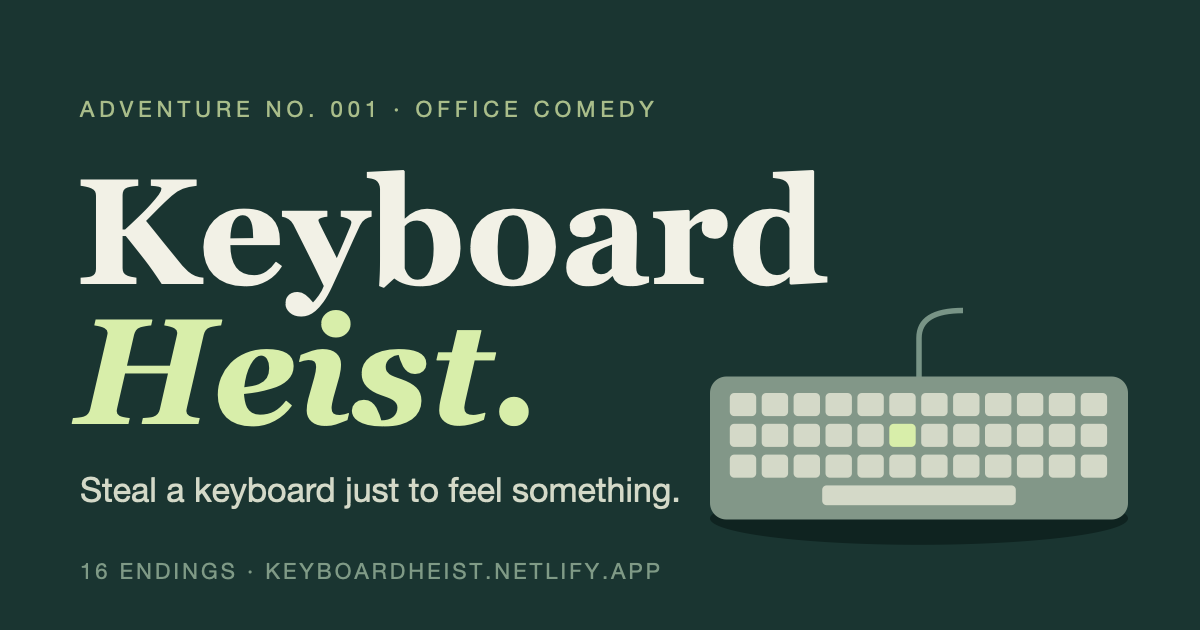
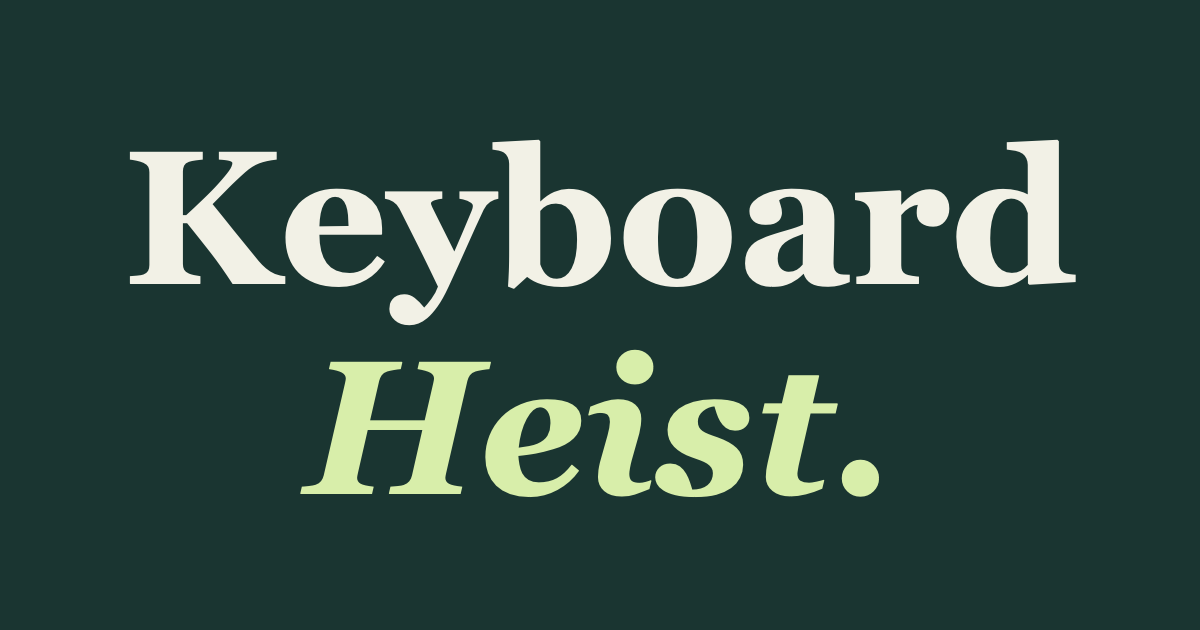
Make the link-preview image just the title

diff --git a/index.html b/index.html
@@ -14,7 +14,7 @@
 <meta property="og:image" content="https://keyboardheist.netlify.app/og-image.png">
 <meta property="og:image:width" content="1200">
 <meta property="og:image:height" content="630">
-<meta property="og:image:alt" content="Keyboard Heist. Steal a keyboard just to feel something. A keyboard with one lime-green key.">
+<meta property="og:image:alt" content="Keyboard Heist">
 <meta name="twitter:card" content="summary_large_image">
 <meta name="twitter:title" content="Keyboard Heist: An office comedy">
 <meta name="twitter:description" content="Steal a keyboard just to feel something. An interactive office comedy with many endings.">

diff --git a/README.md b/README.md
@@ -8,7 +8,7 @@
 - Work one scene or decision at a time: develop the user's idea, propose branches for discussion, and implement the agreed direction. The live game is the full spine as a single path of single-choice buttons, ending at “The plateau” (an earlier version with placeholder choices is recoverable at commit `e4a95d8`). Do not invent continuations merely to fill checkpoints. Add choices back only when their destination scenes are written and agreed with the user.
 - Keep scene text short. Aim for the smallest number of paragraphs that still reads well; each paragraph is a beat, not a chunk. Prefer terse, rhythmic prose over exposition, and combine adjacent beats whenever the writing survives it.
 - Endings (user's direction): the button at an ending goes back to the last choice, not to the beginning.
-- Link previews: `index.html` has Open Graph and Twitter card tags pointing at `og-image.png` (1200x630, made from an SVG; it says “16 ENDINGS,” so redo it if the ending count changes). LinkedIn caches previews; refresh with https://www.linkedin.com/post-inspector/.
+- Link previews: `index.html` has Open Graph and Twitter card tags pointing at `og-image.png` (1200x630, made from an SVG; the user wants it to say only “Keyboard Heist” in the site’s serif style, cream “Keyboard” over lime italic “Heist.” on the dark green background, with no other text or art). LinkedIn caches previews; refresh with https://www.linkedin.com/post-inspector/.
 - Wrong choices (user's direction): early wrong choices grow into new mini-adventures; later ones stay endings.
 - Build order (user's direction): the main story (trunk) first, then diversions. The trunk was first drafted as a single path (`spine-draft.txt`, 29 scenes, recoverable in the game at commit `7acb237`); the user then asked for about 20 scenes with about 10 endings, and the game now implements `story-map.txt`. The user said not to worry about other branches beyond what the map shows.
 - Perspective: always second person (“you”). The adventure is about the player, not a fictional character: never use first person (“I”) or refer to the protagonist in the third person outside quoted dialogue. Choice labels and hints must also read as addressed to “you.”
